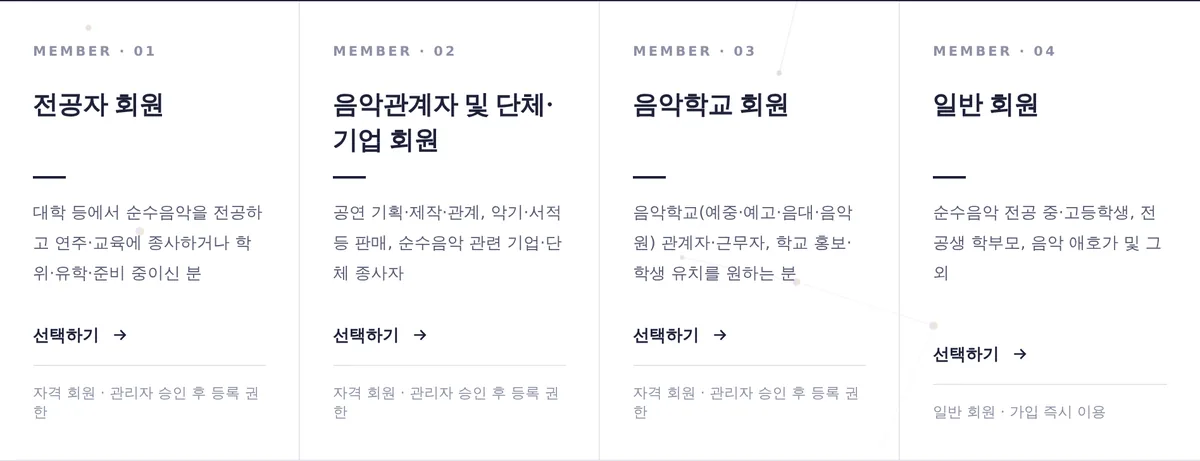
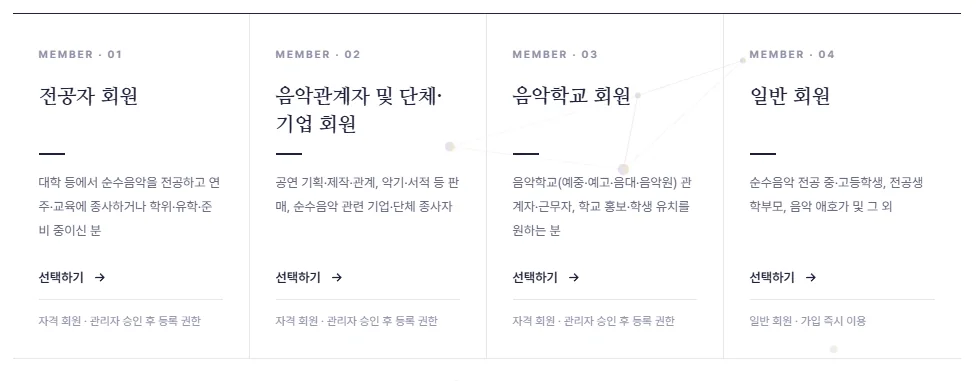
78979

diff --git a/guide.html b/guide.html
@@ -510,7 +510,7 @@
         </table>
 
         <figure class="gd-fig">
-          <img src="/assets/guide/join.webp" width="1200" height="461" loading="lazy"
+          <img src="/assets/guide/join.webp" width="980" height="381" loading="lazy"
                alt="회원가입 화면의 네 가지 회원 종류 카드">
           <figcaption>실제 <b>회원가입</b> 화면이에요. 네 장 중 해당하는 것의
             <b>「선택하기」</b>를 누르면 됩니다. 카드 아래에 「자격 회원 · 관리자
@@ -549,6 +549,15 @@
         <p class="gd-lead">모두 <b><a href="/account/mypage.html">마이페이지</a></b>
           에서 관리해요. 하나씩 볼게요.</p>
 
+        <figure class="gd-fig">
+          <img src="/assets/guide/mypage.webp" width="1138" height="643" loading="lazy"
+               alt="마이페이지 대시보드 — 탭 아홉 개와 요약 상자들">
+          <figcaption>마이페이지 <b>대시보드</b>예요. 위쪽 탭이 아홉 개 —
+            대시보드 · 내 정보 · 활동·등급 · 내가 올린 것 · <b>Linked</b> ·
+            <b>쪽지</b> · 리쿠르트 · 내 레슨 · 저장함이요. 상자마다 아래에
+            「자세히 →」 가 있어서 그 탭으로 바로 갈 수 있어요.</figcaption>
+        </figure>
+
         <h3>즐겨찾기와 킵</h3>
         <p>상세 화면 위쪽에 <b>즐겨찾기</b>와 <b>킵</b> 단추가 있어요.
           둘 다 담아 두는 것인데 쓰는 결이 달라요.</p>
@@ -556,7 +565,7 @@
           자주 찾는 작품처럼요. <b>킵</b>은 「나중에 볼 것」이에요 —
           지금은 시간이 없어 잠깐 접어 두는 느낌이죠.</p>
         <figure class="gd-fig">
-          <img src="/assets/guide/tools.webp" width="1200" height="39" loading="lazy"
+          <img src="/assets/guide/tools.webp" width="1200" height="49" loading="lazy"
                alt="상세 화면 위쪽의 즐겨찾기·킵·저장·공유 단추와 글자크기 조절">
           <figcaption>상세 화면 <b>위쪽 단추줄</b>이에요. 왼쪽부터 즐겨찾기 ·
             킵 · 저장 · 공유이고, 오른쪽은 <b>글자크기</b>예요. 글씨가 작게
@@ -597,6 +606,15 @@
         <p class="gd-lead">로그인하시면 헤더 오른쪽에 <b>「이너스페이스」</b>가
           생겨요. 누르면 화면 위를 덮는 <b>패널</b>이 열려서, 내 것을 한눈에
           볼 수 있어요.</p>
+
+        <figure class="gd-fig">
+          <img src="/assets/guide/inner.webp" width="1200" height="735" loading="lazy"
+               alt="이너스페이스 패널 — 회원 카드·바로 가기·관심분야 통계·Linked·새 글">
+          <figcaption>이너스페이스를 열면 이렇게 <b>내 것이 한 화면에</b>
+            펼쳐져요. 회원 카드와 점수 채우는 길, 바로 가기, 관심분야 통계,
+            다가오는 일정, 이어진 사람, 관심분야 새 글까지요.
+            오른쪽 위 <b>CLOSE</b> 로 닫으면 보던 자리로 돌아와요.</figcaption>
+        </figure>
 
         <h3>무엇이 보이나요</h3>
         <table class="gd-tbl">
@@ -639,6 +657,14 @@
             단추가 생겨요.</li>
         </ol>
 
+        <figure class="gd-fig">
+          <img src="/assets/guide/linked.webp" width="1116" height="374" loading="lazy"
+               alt="마이페이지 Linked 탭 — 아이디로 찾기와 이어진 사람 목록">
+          <figcaption>마이페이지 <b>Linked</b> 탭이에요. 위에서 <b>아이디로
+            찾아</b> 청하고, 오른쪽 「이어진 사람」에 <b>쪽지</b>와 <b>끊기</b>
+            단추가 있어요.</figcaption>
+        </figure>
+
         <div class="gd-tip">
           이름으로는 회원을 찾을 수 없어요. <b>아이디를 정확히 아실 때만</b>
           찾아져요. 회원 명부가 새어 나가지 않게 일부러 그렇게 해 두었어요.
@@ -663,6 +689,14 @@
                 <b>전공자 회원은 기본이 「받지 않음」</b>이고, 나머지는
                 받는 것으로 시작해요.</td></tr>
         </table>
+        <figure class="gd-fig">
+          <img src="/assets/guide/profile-linked.webp" width="1104" height="442"
+               loading="lazy" alt="회원정보 수정 화면의 Linked · 인맥 칸 두 개">
+          <figcaption><b>회원정보 수정</b> 화면을 내리면 이 상자가 있어요.
+            칸을 고쳐 화면 맨 아래 <b>「저장」</b>을 누르셔야 지켜져요.
+            아직 정하지 않으셨으면 아래에 지금 어떤 상태인지 적혀 있어요.</figcaption>
+        </figure>
+
         <p>일반 회원이 청하실 때는 <b>인사말을 꼭 적어야</b> 하고
           (다섯 자 이상), <b>하루 세 번</b>까지 청할 수 있어요.
           모르는 사람에게 무작정 뿌리는 것을 막으려는 거예요.</p>
@@ -788,7 +822,7 @@
           수 있어요. 이 이용안내를 다 읽지 않아도 되게 만든 거예요.</p>
 
         <figure class="gd-fig">
-          <img src="/assets/guide/helper.webp" width="744" height="746" loading="lazy"
+          <img src="/assets/guide/helper.webp" width="409" height="411" loading="lazy"
                alt="도우미 상자 — 빠른 단추와 입력칸">
           <figcaption>단추를 누르셔도 되고, 찾으시는 <b>사람 이름이나 작품
             제목</b>을 그냥 넣으셔도 돼요. 「베토벤 교향곡 5번」처럼

diff --git a/account/profile.html b/account/profile.html
@@ -170,7 +170,16 @@
   .me-chk:hover{border-color:var(--violet-2,#5b4b9e)}
   .me-chk input{flex:0 0 auto;width:17px;height:17px;margin:2px 0 0;cursor:pointer;
     accent-color:var(--violet-2,#5b4b9e)}
-  .me-chk b{display:block;font-size:13.5px;font-weight:700;margin-bottom:3px}
+  /* ★★ 2026-08-20 · <b>줄이 끊겼습니다</b> (파트너가 보낸 화면에서 찾음)
+     ─────────────────────────────────────────────────────────────────
+     b 를 모두 display:block 으로 두었더니, 설명 글 <b>안쪽의 굵은 글씨</b>
+     까지 한 줄을 차지해 「인사말을 반드시 / 적게 하고, / 하루 세 번 /
+     까지만…」 처럼 토막토막 끊겼습니다.
+     ▶ <b>맨 앞의 b 하나만</b> 한 줄로 둡니다(:first-of-type).
+       안쪽의 굵은 글씨는 글줄 안에 그대로 흐릅니다. */
+  .me-chk span > b:first-of-type{display:block;font-size:13.5px;font-weight:700;
+    margin-bottom:3px}
+  .me-chk span b{font-weight:700;color:var(--text)}
   .me-chk span{font-size:12px;color:var(--text-3);line-height:1.65}
 </style>
 </head>
